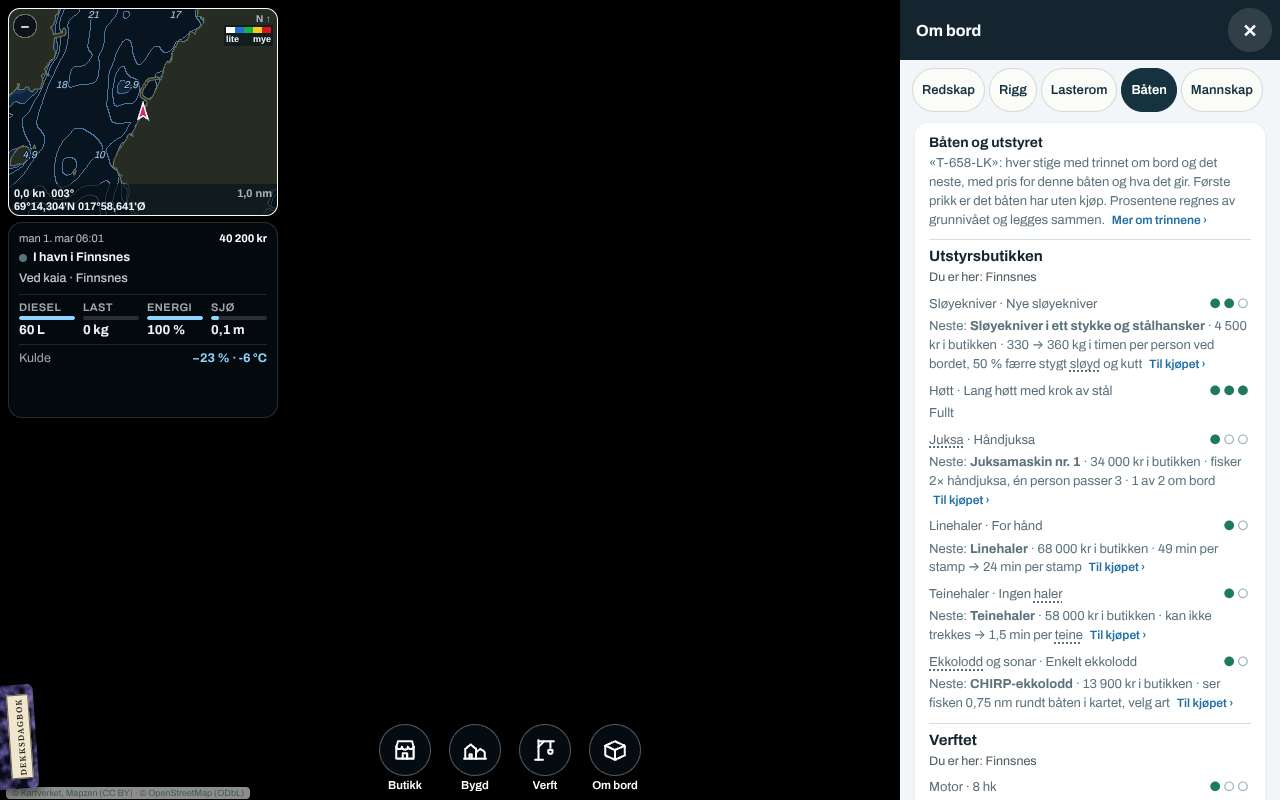
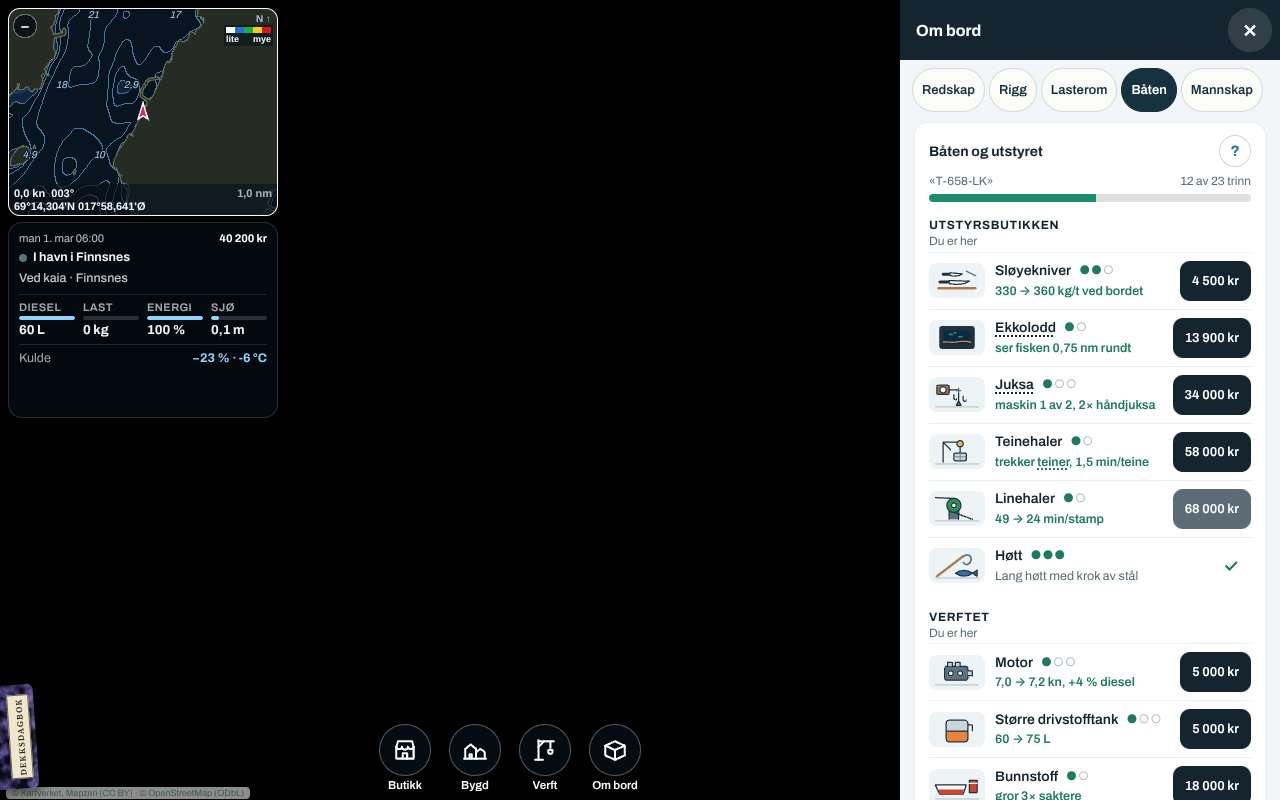
OPP4-siden: stedet under overskriften (brakk over fire linjer i liggende), «forbruk» i Håndboka (hbtest), nye skjermbilder
- Overskriften per handelssted har navnet på første linje og «Du er
  her» eller «Nærmeste: … nm» under, med «Autonav dit» til høyre.
- lex_oppgrad sa «diesel», og hbtest (søket etter «diesel» gir ett tips)
  ble rød på det flettede bygget; nå «forbruk», og hbtest 16 OK.
- Etter flettingen med arbeidsgrenen (Ø10, Ø8b S1): unit 1894 OK,
  boottest 4, opptest 34, hbtest 16. Før det: docktest, uishots,
  navbarshot, dockrow, roetest, vesseltest, markettest grønne;
  fabrikktest og havtur sin Båtsfjord-sjekk røde som på arbeidsgrenen.
  Stikkprøver ved Bergen, Bodø, Hammerfest og Båtsfjord.

Claude-Session: https://claude.ai/code/session_013BxXiFciCKV1umvuBC2zQ5

Changed region(s): [[0.7188, 0.1562, 1.0, 1.0]]

diff --git a/src/js/ui/07c-handbook.js b/src/js/ui/07c-handbook.js
@@ -158,8 +158,8 @@ const HB = [
   // the page «Båten og utstyret» under Om bord › Båten (OPP4 of docs/planer/oppgraderinger.md): how the ladders read, where they are bought,
   // the rule for the per cents, what follows the boat, and the step in «Neste mål»
   {id:'lex_oppgrad', ch:8, lex:true, t:['Båten og utstyret', 'The boat and her gear'], when:() => false,
-    no:'Under Om bord › Båten står hver stige båten har, med prikker: første prikk er det båten har uten kjøp, og hver fylt prikk et trinn om bord. Den grønne linja sier hva neste trinn gir i dine egne tall (kilo i timen ved bordet, minutter per stamp eller garn, knop og diesel), og til høyre står prisen for denne båten. Tingene står under stedet der de selges, utstyrsbutikken eller verftet. Er du der, er prisen knappen til kjøpet; ellers viser siden det nærmeste stedet med Autonav dit. En hake betyr at alt er kjøpt. Prosentene regnes av grunnivået og legges sammen, så to trinn på 10 % gir 20 %. Kniv og høtt er båtens: de følger henne om hun selges til en annen spiller, og blir med henne ved innbytte, så den nye båten har trinn 1. Med én båt viser Neste mål det billigste trinnet som koster under en tidel av neste båt. Siden viser også fisken som er tapt over ripa denne uka, og hvor lenge en stamp line tar å trekke i dag.',
-    en:'Under Aboard › The boat stands every ladder the boat has, with dots: the first dot is what she has without a purchase, and each filled dot a step aboard. The green line says what the next step gives in your own numbers (kilos an hour at the table, minutes a tub or a net, knots and diesel), and the price for this boat stands on the right. The things stand under the place they are sold, the tackle shop or the yard. There, the price is the button to the purchase; elsewhere the page shows the nearest place with Autonav there. A tick means everything is bought. The per cents are of the base level and add up, so two steps of 10% give 20%. The knives and the gaff are the boat\'s: they go with her if she is sold to another player, and stay with her at a trade-in, so the new boat has tier 1. With one boat, Next goals shows the cheapest tier that costs under a tenth of the next boat. The page also shows the fish lost over the rail this week, and how long a tub of line takes to haul today.'},
+    no:'Under Om bord › Båten står hver stige båten har, med prikker: første prikk er det båten har uten kjøp, og hver fylt prikk et trinn om bord. Den grønne linja sier hva neste trinn gir i dine egne tall (kilo i timen ved bordet, minutter per stamp eller garn, knop og forbruk), og til høyre står prisen for denne båten. Tingene står under stedet der de selges, utstyrsbutikken eller verftet. Er du der, er prisen knappen til kjøpet; ellers viser siden det nærmeste stedet med Autonav dit. En hake betyr at alt er kjøpt. Prosentene regnes av grunnivået og legges sammen, så to trinn på 10 % gir 20 %. Kniv og høtt er båtens: de følger henne om hun selges til en annen spiller, og blir med henne ved innbytte, så den nye båten har trinn 1. Med én båt viser Neste mål det billigste trinnet som koster under en tidel av neste båt. Siden viser også fisken som er tapt over ripa denne uka, og hvor lenge en stamp line tar å trekke i dag.',
+    en:'Under Aboard › The boat stands every ladder the boat has, with dots: the first dot is what she has without a purchase, and each filled dot a step aboard. The green line says what the next step gives in your own numbers (kilos an hour at the table, minutes a tub or a net, knots and fuel), and the price for this boat stands on the right. The things stand under the place they are sold, the tackle shop or the yard. There, the price is the button to the purchase; elsewhere the page shows the nearest place with Autonav there. A tick means everything is bought. The per cents are of the base level and add up, so two steps of 10% give 20%. The knives and the gaff are the boat\'s: they go with her if she is sold to another player, and stay with her at a trade-in, so the new boat has tier 1. With one boat, Next goals shows the cheapest tier that costs under a tenth of the next boat. The page also shows the fish lost over the rail this week, and how long a tub of line takes to haul today.'},
   {id:'lex_sponsor', ch:8, lex:true, t:['Sponsorer', 'Sponsors'], when:() => false, get no(){ return SPUI.hb('no'); }, get en(){ return SPUI.hb('en'); }},
   {id:'lex_klaer', ch:8, lex:true, t:['Klær og kulde', 'Clothes and the cold'], when:() => false,
     no:'Kalde og våte hender fisker dårligere: under null går sløying, egning og fisket saktere, og kulda står i statusboksen. Alle om bord trenger sine egne klær. Oljehyre holder deg tørr, varmedressen holder varmen.',

diff --git a/src/styles.css b/src/styles.css
@@ -1724,8 +1724,8 @@ body.calm #dock > .dk-b:not(.hero):not(.stay):not([data-dk="beh"]),body.calm .ov
 .bu-q{flex:0 0 auto;width:32px;height:32px;border-radius:50%;border:1.5px solid #c9d6dd;background:#fff;color:#1f6fa8;font:700 15px var(--sans);cursor:pointer;padding:0}
 .bu-sum{display:flex;justify-content:space-between;gap:8px;font-size:12px;color:#5b6c76;margin:6px 0 4px}
 .bu-at{display:flex;align-items:center;gap:8px;margin:16px 0 2px;font-size:12px;color:#5b6c76}
-.bu-at b{font:700 12px var(--sans);color:#15252f;text-transform:uppercase;letter-spacing:.05em;white-space:nowrap}
-.bu-at span{flex:1;min-width:0}
+.bu-at b{display:block;font:700 12px var(--sans);color:#15252f;text-transform:uppercase;letter-spacing:.05em}
+.bu-at span{flex:1;min-width:0}.bu-at small{display:block;font-size:12px;margin-top:1px}
 #drawerBody .bu-at .ph-btn,.bu-at .ph-btn{margin:0;min-height:36px;padding:6px 12px;flex:0 0 auto}
 .bu-l{display:grid;grid-template-columns:56px minmax(0,1fr) auto;gap:10px;align-items:center;padding:8px 0;border-top:1px solid #e6edf1}
 .bu-ic{background:#eef3f6;border-radius:8px;aspect-ratio:8/5;display:flex;align-items:center;justify-content:center;padding:2px}

diff --git a/src/js/ui/phone/10-fartoy.js b/src/js/ui/phone/10-fartoy.js
@@ -156,7 +156,7 @@
     for (const at of ['butikk', 'verft']){ const G = Ls.filter(x => x.at === at).sort((a, c) => rank(a) - rank(c)), A = AT[at]; if (!G.length) continue;
       // where it is bought: here, or the nearest with Autonav there (core/06c-steder.js placesNear)
       const here = atKind(at), n = here ? null : placesNear(b.pos, at, 1)[0];
-      h.push('<div class="bu-at" data-at="' + at + '"><b>' + L(A[0], A[1]) + '</b><span>' + (here ? L('Du er her', 'You are here') : n ? L('Nærmeste: ', 'Nearest: ') + n.pt.name + ' · ' + fmt(n.d / NM, 1) + ' nm' : '–') + '</span>' +
+      h.push('<div class="bu-at" data-at="' + at + '"><span><b>' + L(A[0], A[1]) + '</b><small>' + (here ? L('Du er her', 'You are here') : n ? L('Nærmeste: ', 'Nearest: ') + n.pt.name + ' · ' + fmt(n.d / NM, 1) + ' nm' : '–') + '</small></span>' +
         (!here && n ? '<button class="ph-btn alt" data-pa="goplace" data-id="' + n.pt.id + '">' + L('Autonav dit', 'Autonav there') + '</button>' : '') + '</div>');
       for (const x of G){ const nx = x.nx;
         // the price: at the place a button to the page it is bought on, away only the price; on its way, or full with a tick
